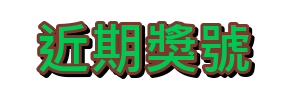
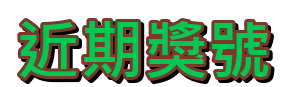
Fix: resolve saved number touch selection bug on Android and increase recent prize button font size

diff --git a/modules/powerlotto.py b/modules/powerlotto.py
@@ -1160,7 +1160,7 @@ class PowerLottoSavedScreen(BaseLotterySavedScreen):
            
 
     def on_saved_number_touch(self, instance, touch, index):
-        if instance.collide_point(*touch.pos) and touch.button == 'left':
+        if instance.collide_point(*touch.pos) and (getattr(touch, 'button', None) in (None, 'left')):
             if touch.is_double_tap:
                 # 雙擊事件 - 直接提取
                 self.use_saved_number(index)

diff --git a/modules/common.py b/modules/common.py
@@ -849,7 +849,7 @@ class BaseLotterySavedScreen(Screen):
     
     def on_saved_number_touch(self, instance, touch, index):
         """處理自選號觸摸事件"""
-        if instance.collide_point(*touch.pos) and touch.button == 'left':
+        if instance.collide_point(*touch.pos) and (getattr(touch, 'button', None) in (None, 'left')):
             if touch.is_double_tap:
                 self.use_saved_number(index)
                 return True
